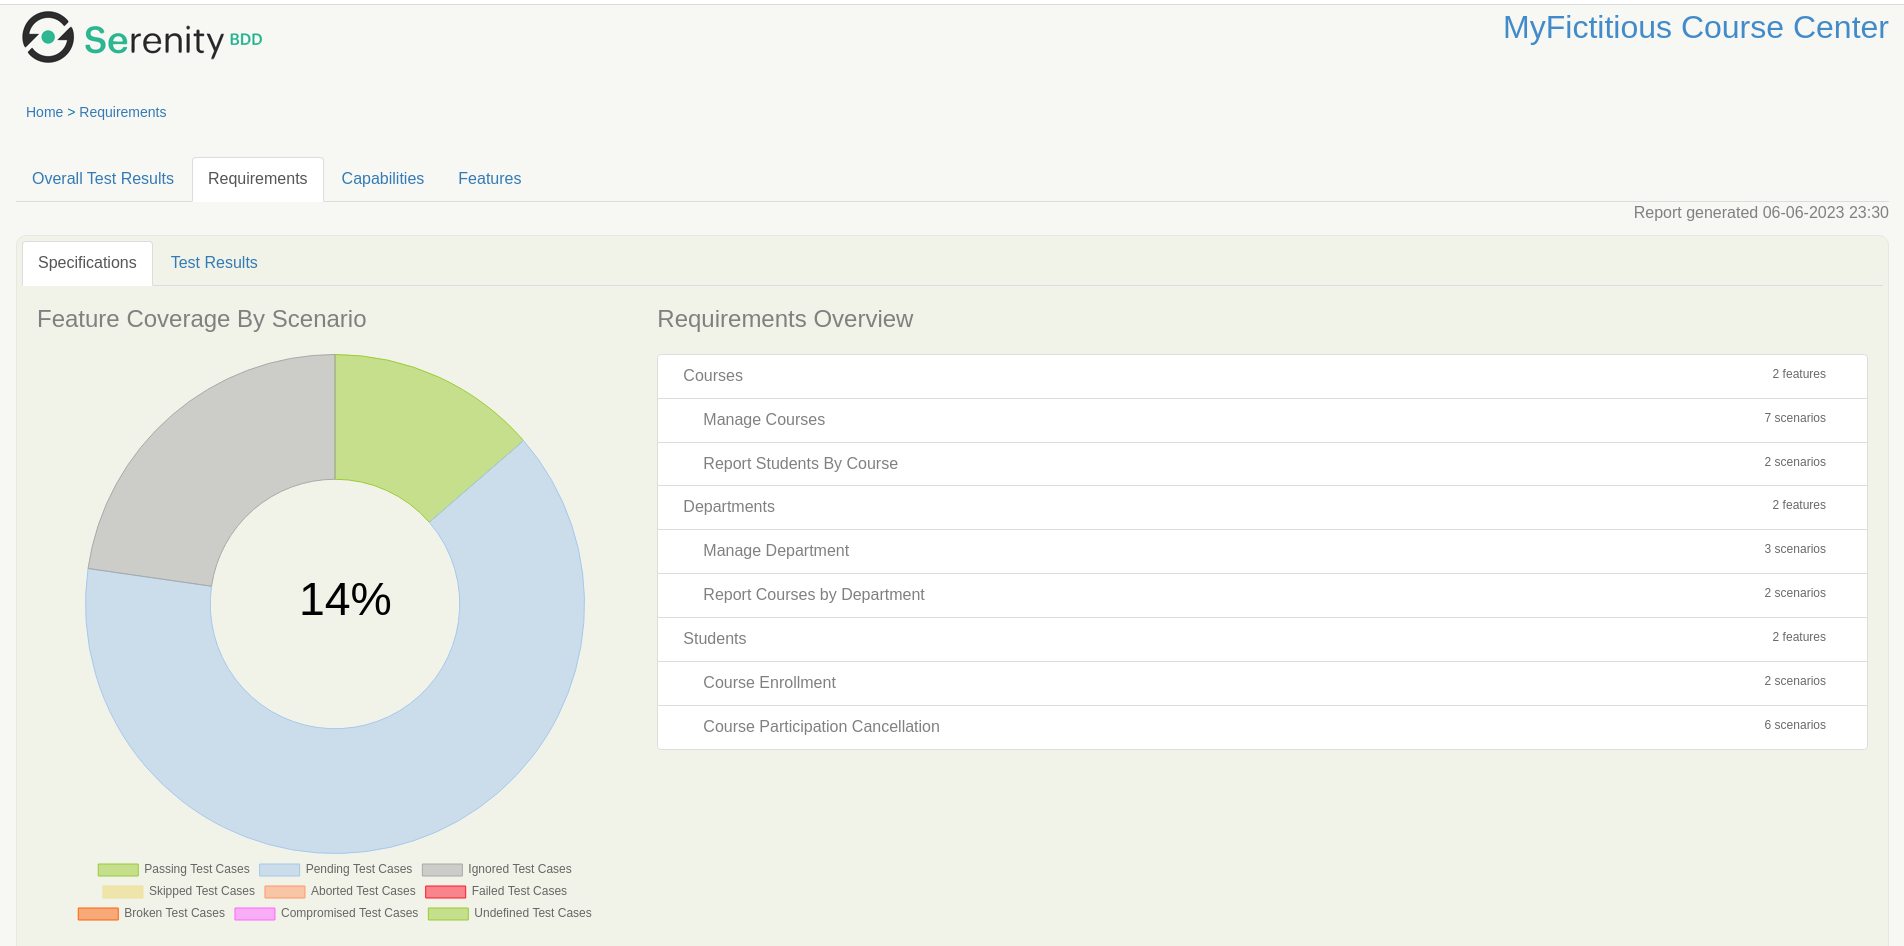
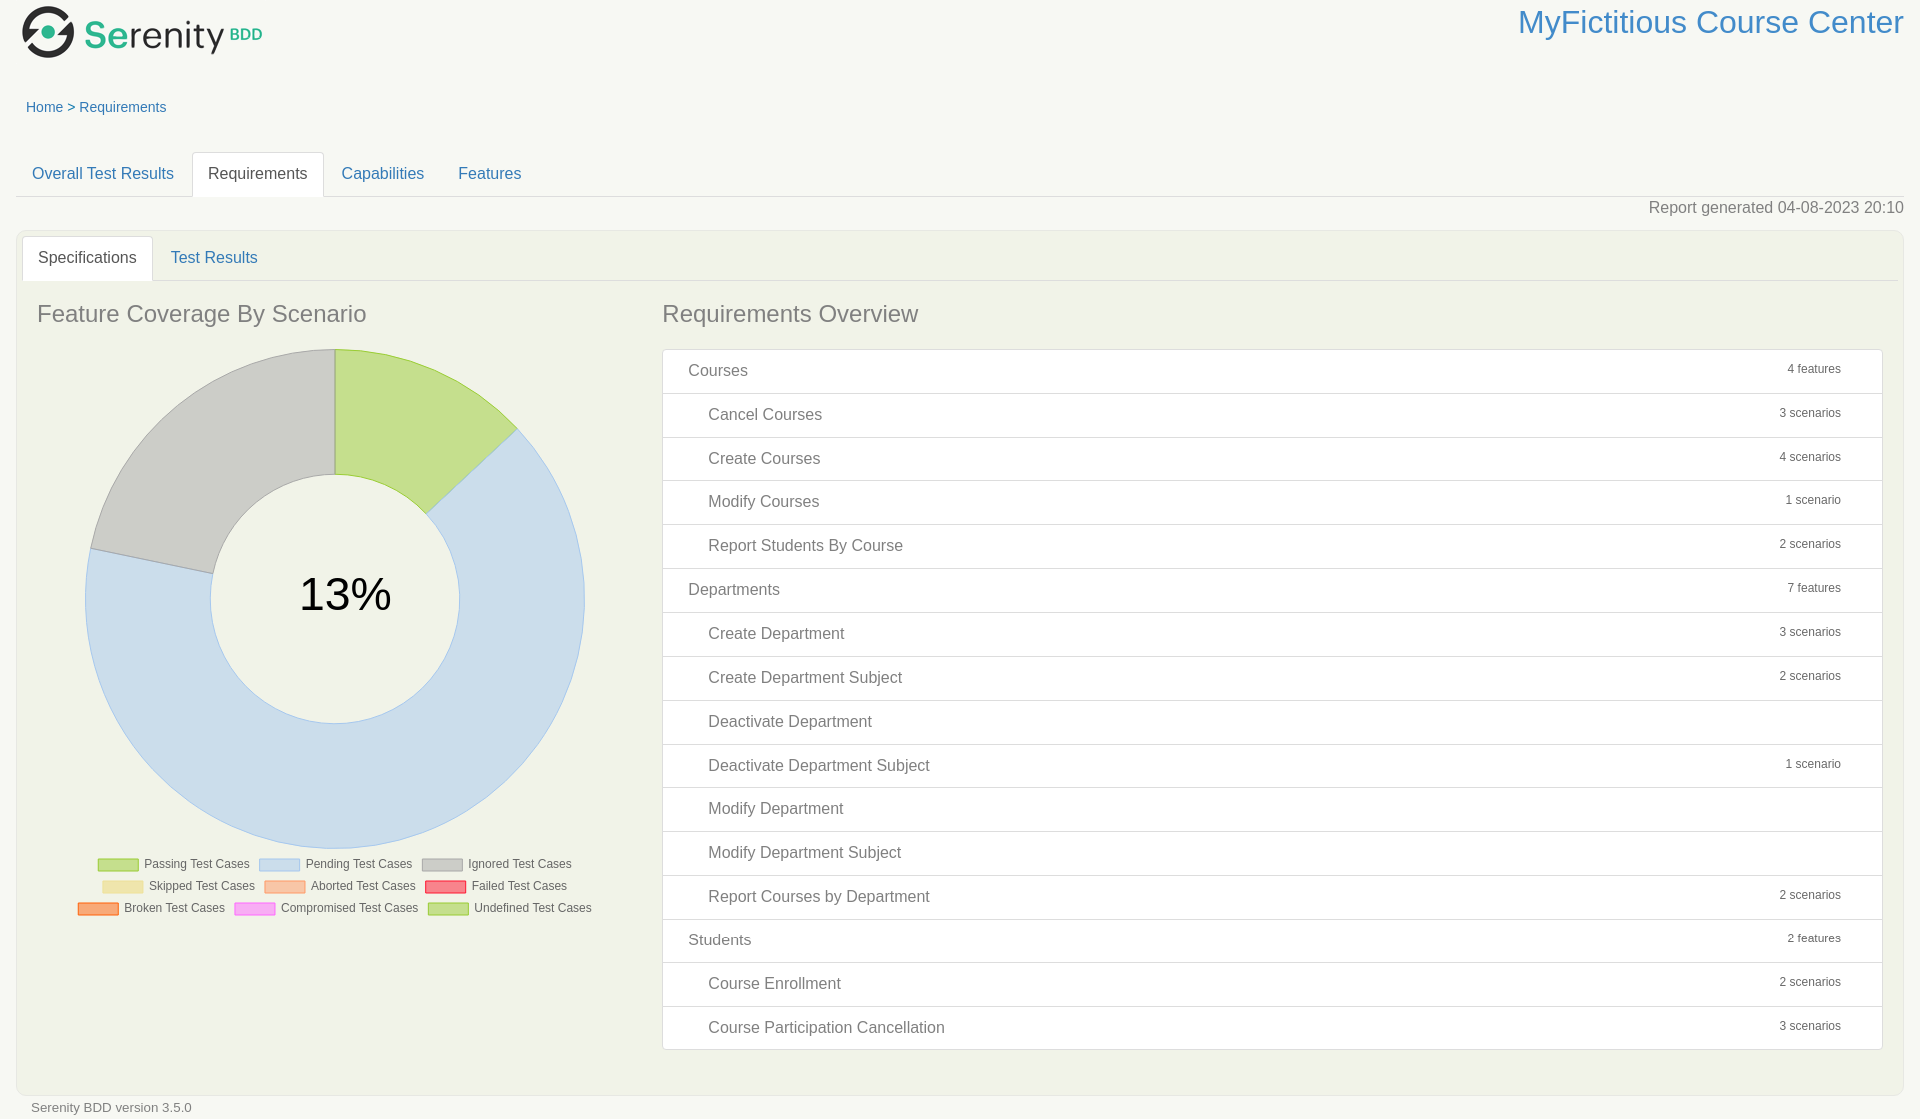
Adjustment in the text and also in the images.

diff --git a/en/_posts/2023-06-20-living-doc-bdd.md b/en/_posts/2023-06-20-living-doc-bdd.md
@@ -153,15 +153,15 @@ only the initial state of this possible scenario. For this domain it is possible
 #### Expected result over the documentation
 
 The expected results is to have a separation of topics according to the project epics (Departments, Students, Courses). The project epics
-will be the starting point to crate the user stories relates to those mapped use cases presented previously. Each use case will be related to a set
-of user stories that will describe the application features. And for each user story there will be available some acceptance
-criteria that will validate the business rule to be followed. It is possible to consider it will be something like this:
+will be the starting point to crate the user stories. Each use case above has a set of scenarios that describe the business needs. Those 
+business needs will be the input to create the user stories that will describe the application features. And for each user story there will 
+be available some acceptance criteria that will validate the business rule to be followed. It is possible to consider it will be something like this:
 
-{% include figure image_path="assets/images/living-doc-bdd/spec-struct.jpeg" alt="spec-struct.jpeg" %}
+{% include figure image_path="assets/images/living-doc-bdd/spec-struct.png" alt="spec-struct.png" %}
 
-This structure will be the concept to create the files in the documentation for the BDD test cases and specification. Since it is common to
-group the user stories in epics, the layer described as use cases will not be present in the documentation. The files structure will
-be explained better when presenting it in the source code project structure.
+This structure will be the concept to create the files in the documentation for the BDD test cases and specification. The user stories are grouped 
+in epics, and each user story will have its acceptance criteria. The files structure will be explained better when presenting it in the 
+source code project structure.
 
 #### Project structure
 
@@ -179,41 +179,43 @@ structure. For the test source code there are 3 main components:
 
 The sample of this project follows the recommended file structure mentioned on the [Serenity official
 documentation](https://serenity-bdd.github.io/docs/reporting/living_documentation#the-requirements-hierarchy). This file structure
-was organized into a hierarchy for Epics and features, being the feature files used to describe a set of User Stories. The Epics are
-described through "readme.md" files, which bring the Epic business description. The feature files represent the Use Cases description,
-which will group the User Stories related to that:
+was organized into a hierarchy for Epics and features, being the feature files used to describe the User Stories. The Epics are
+described through "readme.md" files, which bring the Epic business description. The feature files brings each User Story description 
+and business rules, together with its acceptance criteria:
 
 {% include figure image_path="assets/images/living-doc-bdd/spec-files-structure.png" alt="spec-files-structure.png" %}
 
 Once the files structure is described it is easier to understand how the Given/When/Then BDD definitions written in the Gherkin files
-are related to the steps definition implementation. In this sample, the Use Case feature file is related to the StepsDefinition BDD test
+are related to the steps definition implementation. In this sample, the User Story feature files are related to the StepsDefinition BDD test
 implementation, except for the Students Epic which has the implementation in a single class:
 
 
-| Feature File     | Koltin Implementation |
-|------------------|-----------------------|
-| manage_courses.feature    | CoursesManagementStepsDefinition.kt |
-| report_students_by_course.feature | CoursesReportStepsDefinition.kt |
-| manage_departments.feature | DepartmentsManagementStepsDefinition.kt |
-| report_courses_by_department.feature | DepartmentsReportStepsDefinition.kt |
-| course_enrollment.feature and course_participation_cancellation.feature | StudentsManagementStepsDefinition.kt |
+| Feature File                                                       | Koltin Implementation |
+|--------------------------------------------------------------------|-----------------------|
+| cancel_course.feature</br>create_course.feature</br>modify_course.feature | CoursesManagementStepsDefinition.kt |
+| report_students_by_course.feature                                  | CoursesReportStepsDefinition.kt |
+| create_department.feature</br>create_department_subject.feature</br>deactivate_department.feature</br>deactivate_department_subject.feature</br>modify_department.feature</br>modify_department_subject.feature                                        | DepartmentsManagementStepsDefinition.kt |
+| report_courses_by_department.feature                               | DepartmentsReportStepsDefinition.kt |
+| course_enrollment.feature</br>course_participation_cancellation.feature | StudentsManagementStepsDefinition.kt |
 
 Here follows an example for the mentioned files:
 
 - Feature specification:
 
 ```gherkin
-   Feature: Manage Courses
-   
-     A use case description...
-   
-     Rule: A business rule...
-   
-       Scenario: Create a course successfully
-         Given A department administrator needs to manage course information
-         And there is an existing course: "MyCourse1", "MyC1", "Programming", "2023-02-18", "2023-06-16"
-         When it is informed the course information: "MyCourse2", "MyC2", "Programming", "2023-07-18", "2023-12-16"
-         Then a course is created successfully
+   Feature: Create Courses
+
+  **As a** Departament Manager
+  **I want to** create a new course
+  **So that I can** have a course available into the department to offer to the students
+
+  Rule: A course can be created if there is no course for a subject between the initial and end date.
+
+    Scenario: Create a course successfully
+      Given A department administrator needs to manage course information
+      And there is an existing course: "MyCourse1", "MyC1", "Programming", "2023-02-18", "2023-06-16"
+      When it is informed the course information: "MyCourse2", "MyC2", "Programming", "2023-07-18", "2023-12-16"
+      Then a course is created successfully
 ```
 
 - Steps definition:
